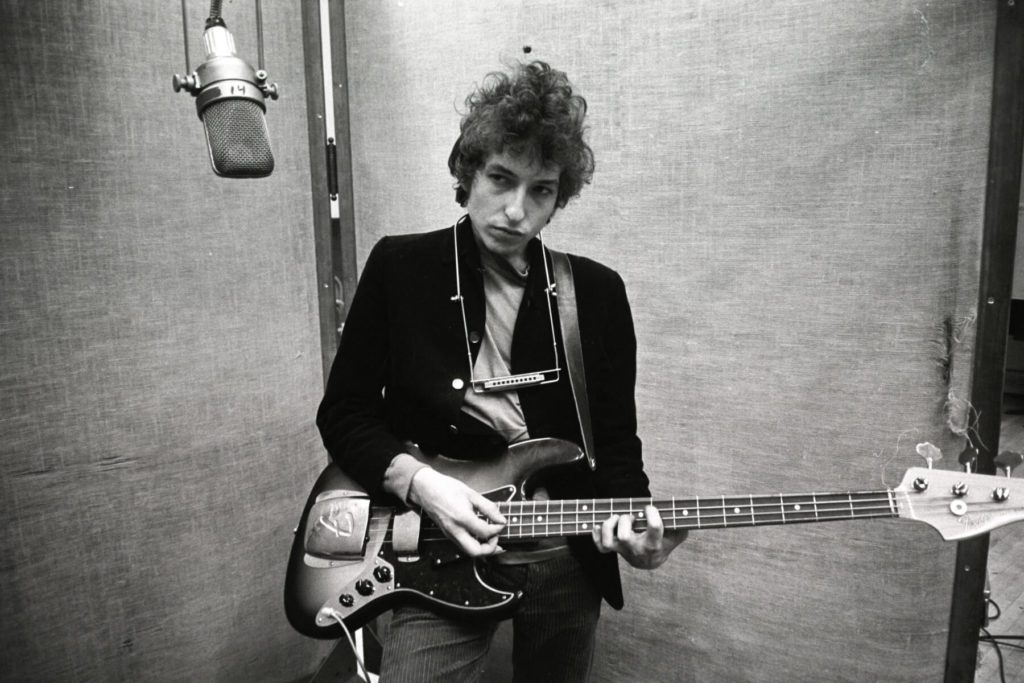
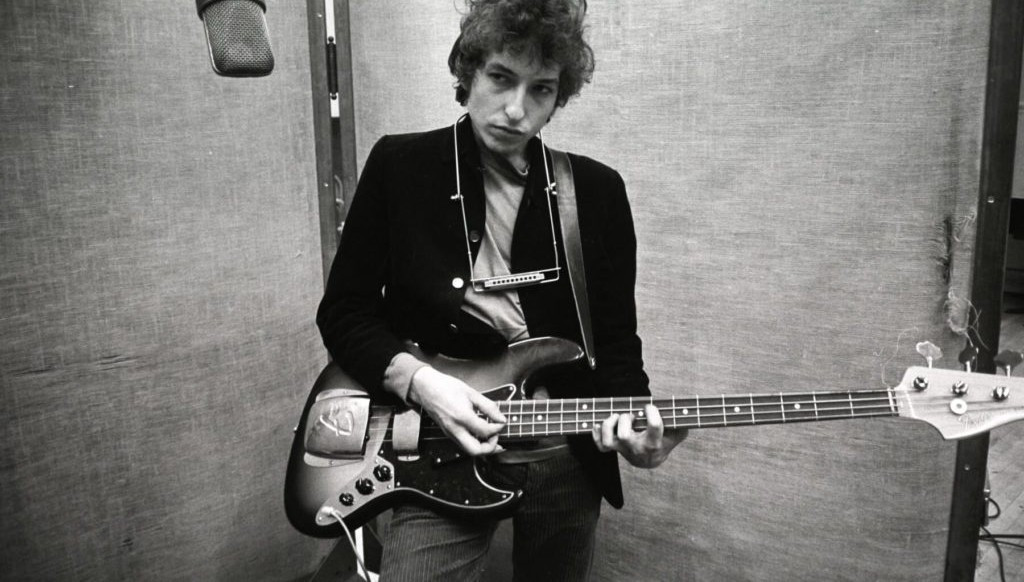
add quiz

diff --git a/quiz.js b/quiz.js
@@ -1,0 +1,154 @@
+const perguntas = [
+    {
+        pergunta: "Se você pudesse herdar uma relíquia tecnológica do passado para usar hoje, qual seria?",
+        opcoes: [
+            { texto: "Uma Jukebox clássica iluminada por neon para decorar a sala", decada: "1950" },
+            { texto: "Uma câmera analógica Super 8 para filmar a vida em tons quentes", decada: "1960" },
+            { texto: "Um toca-discos portátil em formato de maleta bem retrô", decada: "1970" },
+            { texto: "Um toca-fitas Walkman amarelo daqueles bem esportivos", decada: "1980" },
+            { texto: "Um Discman que pula a música se você andar muito rápido", decada: "1990" },
+            { texto: "Um iPod Classic de rodinha lotado de arquivos MP3", decada: "2000" },
+            { texto: "Um celular de teclado QWERTY físico (estilo BlackBerry) ou os primeiros iPods Touch", decada: "2010"},
+            { texto: "Eu prefiro o minimalismo: só o meu celular e fones sem fio atuais", decada: "2020" }
+        ]
+    },
+    {
+        pergunta: "Qual é a sua estética visual favorita ou o estilo de imagem que mais te atrai?",
+        opcoes: [
+            { texto: "Pôsteres pintados à mão e revistas com cores pastéis e visual limpo", decada: "1950" },
+            { texto: "Artes psicodélicas, pôsteres de festivais e estampas florais vibrantes", decada: "1960" },
+            { texto: "Fotos com filtros quentes, lentes olho de peixe e muito veludo cotelê", decada: "1970" },
+            { texto: "Cores neon piscando, gráficos de fliperama e estática de fita VHS", decada: "1980" },
+            { texto: "Fotos analógicas com data amarela no canto e estilo urbano largado", decada: "1990" },
+            { texto: "Estética cibernética do início da internet, tons prateados e óculos futuristas", decada: "2000" },
+            { texto: "Estética Hipster ou fotos conceituais do Tumblr, com filtros vintage bem marcados e camisas xadrez", decada: "2010"},
+            { texto: "Imagens minimalistas, vídeos verticais dinâmicos e filtros estéticos de redes sociais", decada: "2020" }
+        ]
+    },
+    {
+        pergunta: "Escolha uma forma clássica de passar o tempo ou um passatempo icônico:",
+        opcoes: [
+            { texto: "Ir ao cinema drive-in assistir a um filme de suspense dentro do carro", decada: "1950" },
+            { texto: "Se reunir com amigos em um gramado para tocar violão e conversar", decada: "1960" },
+            { texto: "Passar a tarde patinando em uma pista de patinação com globos espelhados", decada: "1970" },
+            { texto: "Tentar quebrar o recorde de pontuação na máquina de Pinball do bairro", decada: "1980" },
+            { texto: "Passar na locadora de fitas de vídeo para escolher os filmes do fim de semana", decada: "1990" },
+            { texto: "Ficar horas escolhendo o subnick perfeito e o plano de fundo do bate-papo", decada: "2000" },
+            { texto: "Passar a tarde jogando Flappy Bird no celular ou personalizando o feed do Instagram com bordas brancas", decada: "2010"},
+            { texto: "Maratonar uma série inteira em um único dia fazendo um 'cine em casa'", decada: "2020" }
+        ]
+    },
+    {
+        pergunta: "Se você ganhasse uma viagem no tempo para um evento cultural, para onde iria?",
+        opcoes: [
+            { texto: "Para a plateia de um programa de auditório de rádio ao vivo", decada: "1950" },
+            { texto: "Para um festival histórico de três dias de paz, lama e muita música livre", decada: "1960" },
+            { texto: "Para uma pista lotada de Nova York dançar sob um enorme globo de espelhos", decada: "1970" },
+            { texto: "Para a inauguração de uma grande loja de fliperamas ou o primeiro dia da MTV no ar", decada: "1980" },
+            { texto: "Para um festival alternativo de rock de garagem ou um show de boyband dos anos 90", decada: "1990" },
+            { texto: "Para um show pop icônico cheio de coreografias sincronizadas e roupas jeans", decada: "2000" },
+            { texto: "Para a pista de um festival eletrônico de 2012 ouvindo o auge do EDM e do Pop de rádio", decada: "2010"},
+            { texto: "Para um festival moderno cheio de palcos interativos, telões de LED e pulseiras luminosas", decada: "2020" }
+        ]
+    },
+    {
+        pergunta: "Qual dessas atitudes mais combina com o seu jeito de ser no dia a dia?",
+        opcoes: [
+            { texto: "Romântico(a) à moda antiga, aprecio a elegância e as tradições clássicas", decada: "1950" },
+            { texto: "Questionador(a) e idealista, gosto de pensar fora da caixa e lutar por mudanças", decada: "1960" },
+            { texto: "Good vibes e expressivo(a), gosto de liberdade e de me destacar pelo estilo", decada: "1970" },
+            { texto: "Nostálgico(a) e enérgico(a), amo tudo que envolve cultura pop, cores e videogames", decada: "1980" },
+            { texto: "Descontraído(a) e autêntico(a), prefiro as coisas simples, reais e sem muita frescura", decada: "1990" },
+            { texto: "Entusiasta da tecnologia, adoro acompanhar tendências e criar comunidades online", decada: "2000" },
+            { texto: "Ligado(a) em cultura pop de transição, vivi a febre das sagas literárias no cinema e gosto de registrar tudo com fotos estéticas", decada: "2010"},
+            { texto: "Prático(a) e multitarefa, faço tudo pelo celular, crio conteúdos e consumo tudo muito rápido", decada: "2020" }
+        ]
+    }
+];
+
+let perguntaAtual = 0;
+
+let pontuacao = {
+    "1950": 0, "1960": 0, "1970": 0, "1980": 0, "1990": 0, "2000": 0, "2010": 0, "2020": 0
+};
+
+function carregarPergunta() {
+    if (perguntaAtual < perguntas.length) {
+        const dadosPergunta = perguntas[perguntaAtual];
+        document.getElementById("pergunta").innerText = dadosPergunta.pergunta;
+        
+        const divOpcoes = document.getElementById("opcoes");
+        divOpcoes.innerHTML = ""; 
+        dadosPergunta.opcoes.forEach(opcao => {
+            const botao = document.createElement("button");
+            botao.innerText = opcao.texto;
+            botao.className = "btn-opcao"; 
+            botao.onclick = () => computarResposta(opcao.decada);
+            divOpcoes.appendChild(botao);
+        });
+    } else {
+        mostrarResultado();
+    }
+}
+
+function computarResposta(decadaSelecionada) {
+    pontuacao[decadaSelecionada]++;
+    perguntaAtual++;
+    carregarPergunta();
+}
+
+function mostrarResultado() {
+    document.getElementById("quiz-container").style.display = "none";
+    document.getElementById("resultado-container").style.display = "block";
+
+    let decadaVencedora = Object.keys(pontuacao).reduce((a, b) => pontuacao[a] > pontuacao[b] ? a : b);
+
+    document.getElementById("resultado-decada").innerText = `Anos ${decadaVencedora}!`;
+    
+    const textosResultados = {
+        "1950": "Você é do puro Rockabily! Combina com o nascimento do Rock 'n' Roll, Elvis Presley e os clássicos juke-boxes.",
+        "1960": "Sua vibe é a Revolução dos Beatles e a Tropicália! Paz, amor e muita psicodelia definem sua alma.",
+        "1970": "Abram alas para a era Disco e o Rock progressivo! Você brilha na pista ao som de ABBA, Queen e Bee Gees.",
+        "1980": "Puro Synthpop e New Wave! Você combina com os cabelos armados, as batidas eletrônicas e o auge de Michael Jackson e Madonna.",
+        "1990": "A era de ouro do Grunge e das Boybands! Você tem a energia do Nirvana, das Spice Girls e das dancinhas do Eurodance.",
+        "2000": "Anos 2000 purinho! Sua vibe é o Pop Punk, Britney Spears, Beyoncé e o início da era digital com o MP3 player.",
+        "2010": "A era de ouro do Tumblr, do EDM e dos feeds organizados! Sua vibe combina com o nascimento do Instagram, as camisas xadrez, a febre das sagas literárias e os maiores hits pop que dominavam as rádios.",
+        "2020": "Você é totalmente conectado! Sua trilha sonora passeia pelo Pop moderno, K-Pop, e os maiores hits do TikTok e streaming."
+    };
+
+    document.getElementById("resultado-texto").innerText = textosResultados[decadaVencedora];
+
+    const paginasDecadas = {
+        "1950": "1950s.html", 
+        "1960": "1960s.html",
+        "1970": "1970s.html",
+        "1980": "1980s.html",
+        "1990": "1990s.html",
+        "2000": "2000s.html",
+        "2010": "2010s.html",
+        "2020": "2020s.html"
+    };
+
+    const btnVisitar = document.getElementById("btn-visitar-era");
+    btnVisitar.onclick = () => {
+        window.location.href = paginasDecadas[decadaVencedora];
+    };
+
+}
+
+function reiniciarQuiz() {
+    perguntaAtual = 0;
+    pontuacao = { "1950": 0, "1960": 0, "1970": 0, "1980": 0, "1990": 0, "2000": 0, "2010": 0, "2020": 0 };
+    document.getElementById("quiz-container").style.display = "block";
+    document.getElementById("resultado-container").style.display = "none";
+    carregarPergunta();
+}
+
+window.onload = carregarPergunta;
+
+const menuToggle = document.getElementById("menu-toggle");
+const navLinks = document.getElementById("nav-links");
+
+menuToggle.addEventListener("click", () => {
+    navLinks.classList.toggle("active");
+});

diff --git a/css/quiz.css b/css/quiz.css
@@ -1,0 +1,182 @@
+@import url('https://fonts.googleapis.com/css2?family=Poppins:ital,wght@0,100;0,200;0,300;0,400;0,500;0,600;0,700;0,800;0,900;1,100;1,200;1,300;1,400;1,500;1,600;1,700;1,800;1,900&family=Sixtyfour&display=swap');
+
+/*1. GERAL*/
+:root {
+    --bg-dark: #121212;
+    --bg-card: #51425f; /* Ajustado para bater com seu padrão --bt-card */
+    --neon-purple: #a651eb;
+    --text-gray: #cfc5c5;
+}
+
+* {
+    margin: 0;
+    padding: 0;
+    box-sizing: border-box;
+}
+
+body {
+    background-color: var(--bg-dark);
+    color: #ffffff;
+    font-family: 'Poppins', sans-serif;
+    min-height: 100vh;
+    display: flex;
+    flex-direction: column;
+    align-items: center;
+}
+
+/* 2. CABEÇALHO & MENU HAMBÚRGUER*/
+.navbar {
+    width: 100% !important;
+    background: var(--bg-dark) !important;
+    padding: 15px 30px !important;
+    display: flex !important;
+    flex-direction: row !important;
+    justify-content: space-between !important;
+    align-items: center !important;
+    position: relative;
+    z-index: 1000;
+}
+
+.navbar-brand.tit-menu {
+    color: #FFFFFF !important;
+    text-decoration: none !important;
+    font-weight: bold;
+    transition: all 0.2s;
+}
+
+.tit-menu:hover {
+    color: var(--neon-purple) !important;
+    text-shadow: 0 0 2px var(--neon-purple);
+}
+
+.menu-toggle {
+    width: 35px;
+    display: flex !important;
+    flex-direction: column !important;
+    gap: 6px !important;
+    cursor: pointer !important;
+}
+
+.menu-toggle span {
+    display: block !important;
+    width: 70% !important;
+    height: 3.5px !important;
+    background: white !important;
+    border-radius: 5px !important;
+}
+
+.nav-links {
+    position: absolute !important;
+    top: 60px !important;
+    right: 0 !important;
+    width: 100% !important;
+    background: var(--bg-dark) !important;
+    list-style: none !important;
+    display: none !important;
+    flex-direction: column !important;
+    align-items: center !important;
+    padding: 25px 0 !important;
+    gap: 15px !important;
+    z-index: 999;
+    border-bottom: 1px solid rgba(166, 81, 235, 0.2);
+}
+
+.nav-links.active {
+    display: flex !important;
+}
+
+.nav-links a {
+    color: #fff !important;
+    text-decoration: none !important;
+    font-size: 1rem !important;
+    transition: color 0.2s;
+}
+
+.nav-links a:hover {
+    color: var(--neon-purple) !important;
+}
+
+/*3. quiz*/
+.container {
+    max-width: 650px;
+    width: 90vw;
+    margin: auto 20px !important; 
+    background-color: #1a1a1e;
+    padding: 40px;
+    border-radius: 15px;
+    border: 1px solid #333;
+    text-align: center;
+    box-shadow: 0 8px 24px rgba(0, 0, 0, 0.6);
+}
+
+h2#pergunta {
+    font-size: 1.5rem;
+    color: #ffffff;
+    margin-bottom: 30px;
+    line-height: 1.4;
+}
+
+.opcoes-group {
+    display: flex;
+    flex-direction: column;
+    gap: 16px;
+}
+
+.btn-opcao {
+    background-color: rgba(81, 66, 95, 0.2); 
+    color: var(--text-gray);
+    border: 2px solid rgba(166, 81, 235, 0.4);
+    padding: 16px 24px;
+    font-size: 1rem;
+    font-family: 'Poppins', sans-serif;
+    font-weight: 500;
+    border-radius: 10px;
+    cursor: pointer;
+    text-align: left;
+    transition: all 0.3s ease;
+}
+
+.btn-opcao:hover {
+    background-color: var(--neon-purple);
+    color: #ffffff;
+    border-color: var(--neon-purple);
+    transform: translateX(5px);
+    box-shadow: 0 0 15px rgba(188, 19, 254, 0.3);
+}
+
+/*4. tela resultado quiz */
+#resultado-container h2 {
+    color: var(--text-gray);
+}
+
+#resultado-container h1 {
+    font-size: 3rem;
+    color: var(--neon-purple);
+    margin: 20px 0;
+    text-shadow: 0 0 10px rgba(166, 81, 235, 0.5);
+}
+
+#resultado-texto {
+    color: var(--text-gray);
+    font-size: 1.1rem;
+    line-height: 1.6;
+    margin-bottom: 30px;
+}
+
+.btn-reiniciar {
+    background-color: transparent;
+    border: 2px solid var(--neon-purple);
+    color: #ffffff;
+    font-family: 'Poppins', sans-serif;
+    font-weight: bold;
+    padding: 12px 30px;
+    border-radius: 25px;
+    cursor: pointer;
+    transition: all 0.3s ease;
+}
+
+.btn-reiniciar:hover {
+    background-color: var(--neon-purple);
+    transform: scale(1.05);
+    box-shadow: 0 0 10px var(--neon-purple);
+}

diff --git a/quiz.html b/quiz.html
@@ -1,0 +1,51 @@
+<!DOCTYPE html>
+<html lang="en">
+<head>
+    <meta charset="UTF-8">
+    <meta name="viewport" content="width=device-width, initial-scale=1.0">
+    <title>Quiz Pop</title>
+    <link rel="stylesheet" href="css/quiz.css"> </head>
+</head>
+
+<body>
+    <nav class="navbar">
+        <a class="navbar-brand fw-bold tit-menu text-white" href="index.html">Cultura musical</a>
+
+        <!--Menu hamburguer-->
+        <div class="menu-toggle" id="menu-toggle">
+            <span></span>
+            <span></span>
+            <span></span>
+        </div>
+        
+        <!--Links-->
+        <ul class="nav-links" id="nav-links">
+            <li><a href="1960s.html">Anos 60</a></li>
+            <li><a href="1970s.html">Anos 70</a></li>
+            <li><a href="1980s.html">Anos 80</a></li>
+            <li><a href="1990s.html">Anos 90</a></li>
+            <li><a href="2000s.html">Anos 2000</a></li>
+            <li><a href="2010s.html">Anos 2010</a></li>
+            <li><a href="2020s.html">Anos 2020</a></li>
+
+        </ul>
+    </nav>
+
+    <div class="container">
+        <div id="quiz-container">
+            <h2 id="pergunta">Carregando pergunta...</h2>
+            <div id="opcoes" class="opcoes-group"></div>
+        </div>
+        
+        <div id="resultado-container" style="display: none;">
+            <h2>Sua era musical é...</h2>
+            <h1 id="resultado-decada"></h1>
+            <p id="resultado-texto"></p>
+            <button id="btn-visitar-era" class="btn-reiniciar" style="margin-bottom: 15px; background-color: var(--neon-purple);">Visite sua era!</button><br>
+            <button class="btn-reiniciar" onclick="reiniciarQuiz()">Fazer o Quiz Novamente</button>
+        </div>
+    </div>
+
+    <script src="quiz.js"></script>
+</body>
+</html>

diff --git a/script.js b/script.js
@@ -1,0 +1,6 @@
+const menuToggle = document.getElementById("menu-toggle");
+const navLinks = document.getElementById("nav-links");
+
+menuToggle.addEventListener("click", () => {
+    navLinks.classList.toggle("active");
+});
